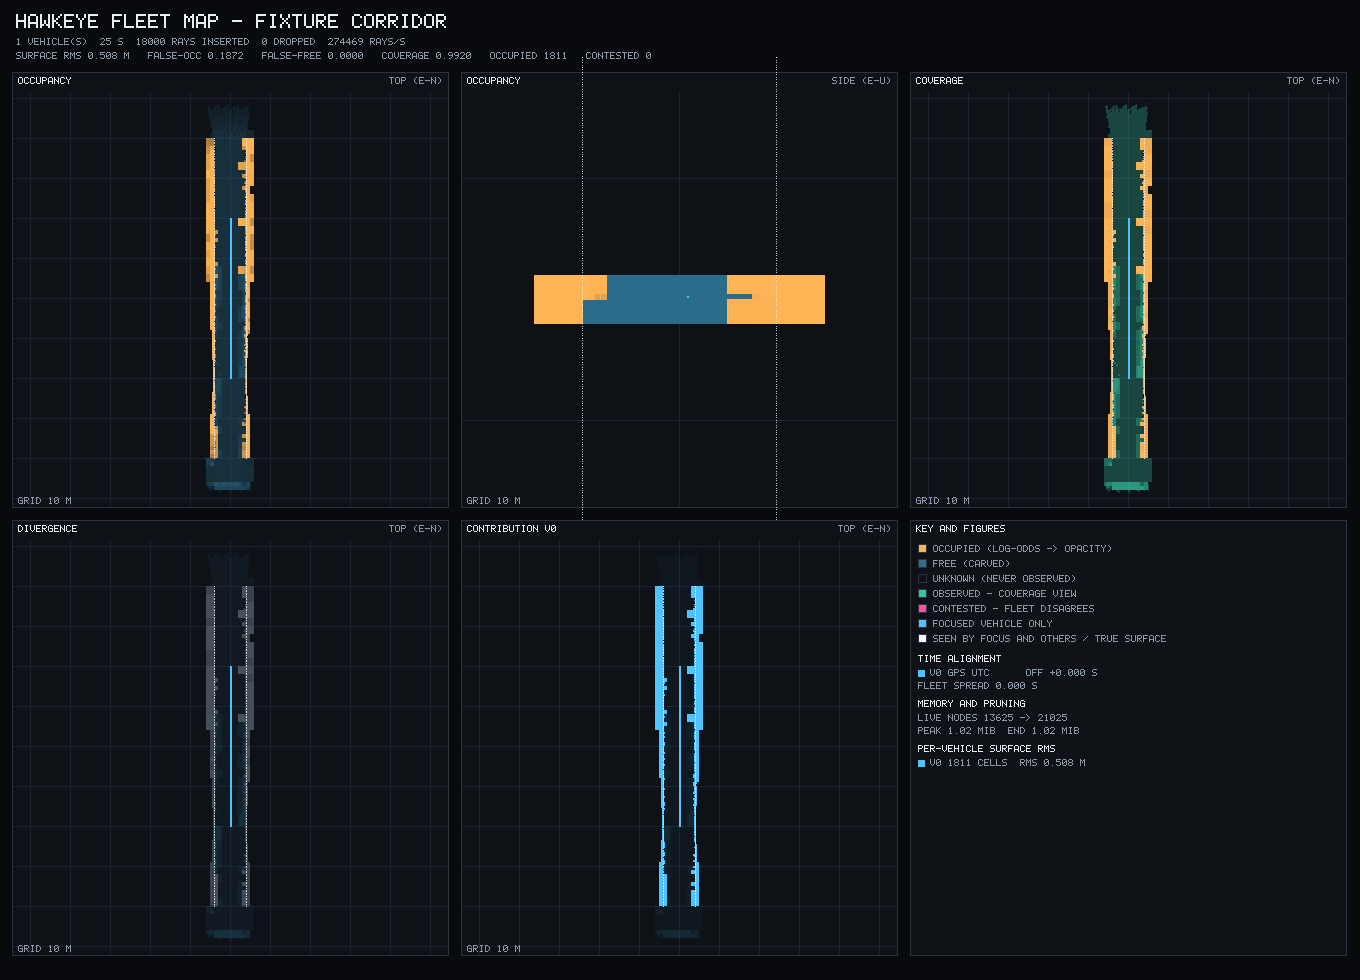
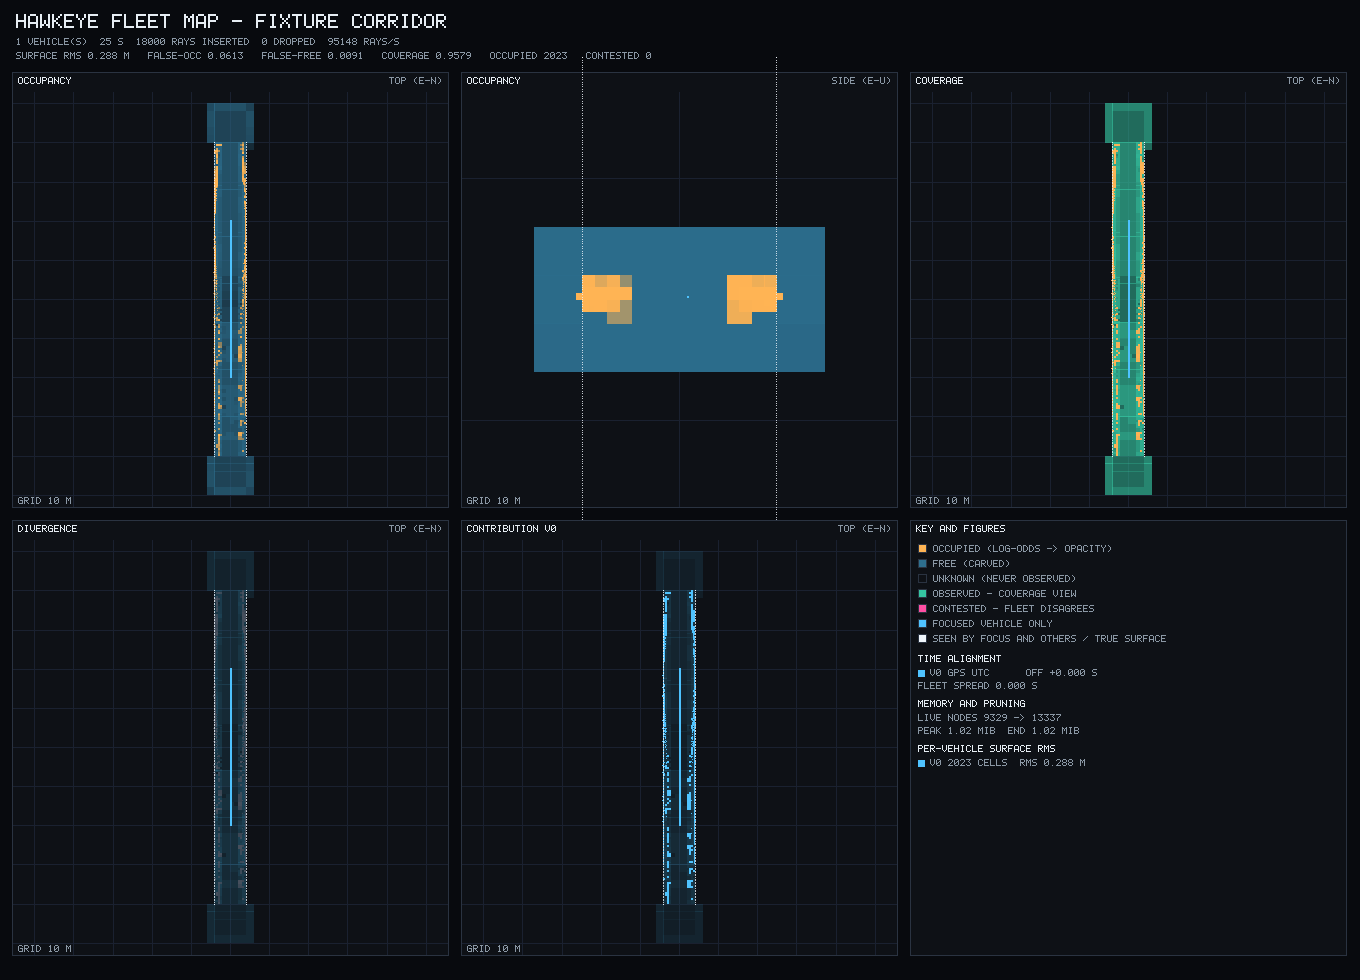
docs: rescore the statue tables against the exact mesh, and regenerate the panels
Two corrections to the previous commit, both caught by regenerating the
render panels and noticing they disagreed with the table above them.

The statue figures are asserted against the exact triangles, not the splat
centres -- statue-fixtures.md says so in the paragraph directly above the
table -- and I had measured without `--mesh`. Rescored: solo RMS 0.2533 and
false-occupied 0.0280 rather than 0.331 and 0.052, fleet 0.2623 and 0.0333,
merged surface 0.9972 against 0.353 for the best single drone. The pre-cone
column moves the same way and still fails five thresholds, so the comparison
is unchanged; the absolute numbers were wrong and are now right. The mesh
caveat is stated under the table so the next person does not repeat it.

The checked-in panels were themselves generated before the beam model and
showed a map the code no longer builds. `make renders` re-run.

diff --git a/docs/developer/statue-fixtures.md b/docs/developer/statue-fixtures.md
@@ -88,18 +88,18 @@ the precision section below for why that distinction has teeth.
 
 | | solo | fleet |
 | --- | --- | --- |
-| surface RMS | 0.331 m | 0.339 m |
-| false-occupied | 0.052 | 0.060 |
-| false-free | 0.0010 | 0.0026 |
+| surface RMS | 0.253 m | 0.262 m |
+| false-occupied | 0.028 | 0.033 |
+| false-free | 0.0011 | 0.0028 |
 | shape recall | 0.9817 | 0.9812 |
 | shape precision (strict / ±1 voxel) | 0.464 / 0.978 | 0.464 / 0.978 |
 | shape IoU (strict, 1 m lattice) | 0.420 | 0.424 |
 | whole-cloud coverage | 0.816 | 0.830 |
-| merged surface | — | 0.9974 |
-| best single drone alone | — | 0.350 |
+| merged surface | — | 0.9972 |
+| best single drone alone | — | 0.353 |
 
 The fleet reaches more of the statue in half the time, and no single drone
-accounts for more than 35% of the observed surface. That is the cooperative
+accounts for more than 36% of the observed surface. That is the cooperative
 claim on a real object rather than on a box.
 
 These are the figures for the **beam** sensor model — carving the cone and
@@ -108,12 +108,13 @@ read better on every row (0.243 m RMS, 0.9996 recall, 0.526 strict precision)
 and was scored against an injector that reported range along the beam axis
 rather than the nearest surface anywhere in the beam, which is not what
 `OBSTACLE_DISTANCE` means. Against a faithful injector the same map scores
-0.5182 m and 0.8726 — the numbers got worse because the sensor got real, and
-the beam model is what brings them back inside thresholds that never moved.
-See [fleet-map.md](fleet-map.md#why-the-beam-is-modelled-as-a-beam).
+0.4537 m RMS and 0.8726 recall and fails five thresholds — the numbers got
+worse because the sensor got real, and the beam model is what brings them back
+inside thresholds that never moved. See
+[fleet-map.md](fleet-map.md#why-the-beam-is-modelled-as-a-beam).
 
-Read the residual honestly: at 0.25 m leaves a 0.33 m RMS is a leaf and a third,
-and it is dominated by the footprint spread rather than by scatter — ±1-voxel
+Read the residual honestly: at 0.25 m leaves a 0.25 m RMS is one leaf, and it
+is dominated by the footprint spread rather than by scatter — ±1-voxel
 precision is 0.978 while strict precision is 0.464, which is the signature of
 cells sitting *near* the surface rather than in the wrong place.
 

diff --git a/docs/developer/fleet-map.md b/docs/developer/fleet-map.md
@@ -120,15 +120,19 @@ work began**:
 | --- | --- | --- |
 | `corridor` surface RMS (max 0.80) | 0.9654 ✗ | 0.2883 |
 | `corridor` false-occupied (max 0.30) | 0.4619 ✗ | 0.0613 |
-| `statue-solo` surface RMS (max 0.40) | 0.5182 ✗ | 0.3310 |
-| `statue-solo` false-occupied (max 0.10) | 0.1794 ✗ | 0.0516 |
+| `statue-solo` surface RMS (max 0.40) | 0.4537 ✗ | 0.2533 |
+| `statue-solo` false-occupied (max 0.10) | 0.1495 ✗ | 0.0280 |
 | `statue-solo` shape recall (min 0.95) | 0.8726 ✗ | 0.9817 |
 | `statue-solo` shape precision (min 0.45) | 0.3912 ✗ | 0.4642 |
+| `statue-solo` shape IoU (min 0.40) | 0.3364 ✗ | 0.4201 |
 | `statue-fleet` shape recall (min 0.95) | 0.8922 ✗ | 0.9812 |
 | `castle-interior` shape recall | 0.9140 | 0.9684 |
 
 Reproduce the left column with `git show 43b3513:src/octomap.c`; the fixture
-recordings are unchanged either way, because the injector is the same.
+recordings are unchanged either way, because the injector is the same. The
+statue rows are scored against the exact triangles (`--mesh`), which is what
+the fixture asserts — scoring against splat centres instead shifts RMS and
+false-occupied upward on both columns without changing the comparison.
 
 One fixture moved the other way and its thresholds *were* relaxed: `cone`
 scores 0.0000 m RMS with a point hit and 0.3235 m with the spread. That is the
